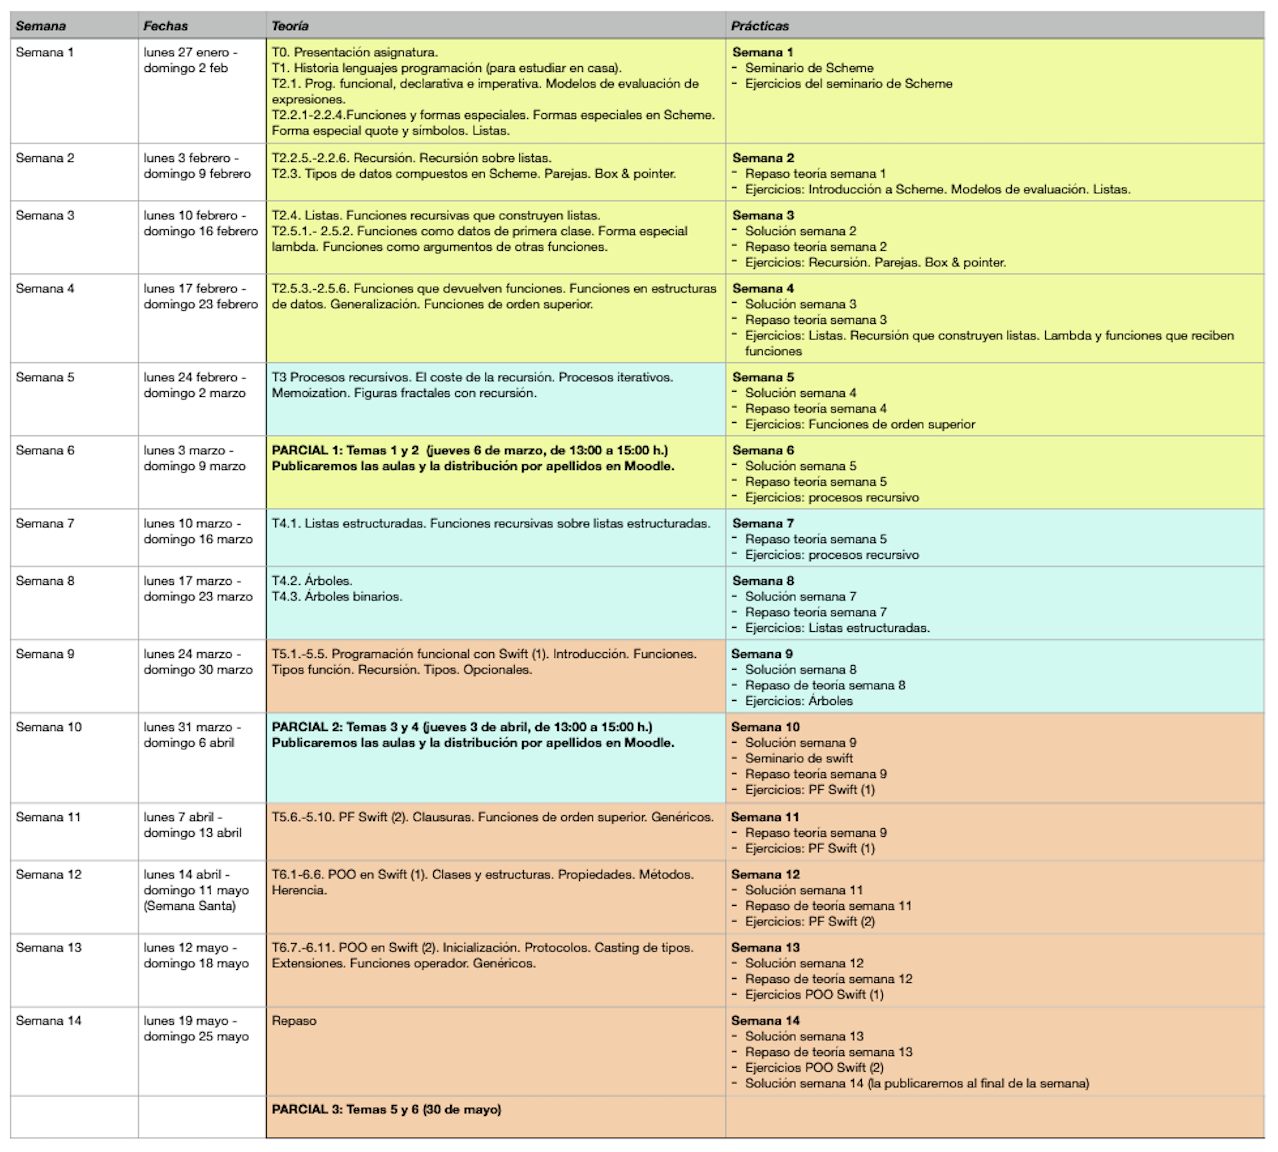
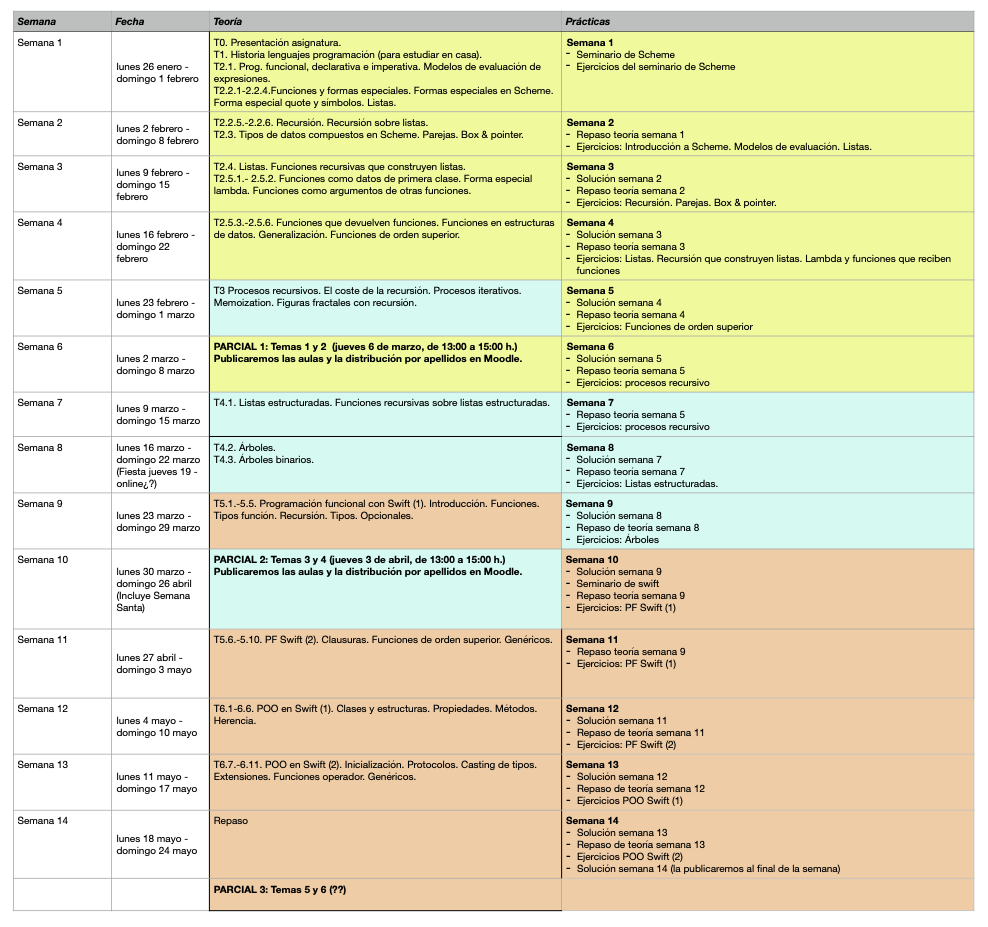
Semana 1 LPP

diff --git a/docs/teoria/tema00-descripcion-asignatura/tema00-descripcion-asignatura.md b/docs/teoria/tema00-descripcion-asignatura/tema00-descripcion-asignatura.md
@@ -18,12 +18,12 @@ prácticas de 2 h. a la semana
 
 ## 2. Recursos de la asignatura
 
-* [Ficha de la asignatura](https://cvnet.cpd.ua.es/Guia-Docente/GuiaDocente/Index?wcodest=C203&wcodasi=34017&wlengua=es&scaca=2024-25)
+* [Ficha de la asignatura](https://cvnet.cpd.ua.es/Guia-Docente/GuiaDocente/Index?wlengua=es&wcodasi=34017&scaca=2025-26)
 * [Apuntes de la asignatura (teoría, seminarios y prácticas)](https://domingogallardo.github.io/apuntes-lpp/)
-* [Sitio Moodle](https://moodle2024-25.ua.es/moodle/course/view.php?id=4543)
+* [Sitio Moodle](https://moodle2025-26.ua.es/moodle/course/view.php?id=8244)
   abierto y accesible a toda la comunidad educativa, contiene los apuntes,
   transparencias, prácticas y otros materiales docentes.
-* [Foro de consultas y anuncios](https://moodle2024-25.ua.es/moodle/mod/forum/view.php?id=99497) en el sitio Moodle.
+* [Foro de consultas y anuncios](https://moodle2025-26.ua.es/moodle/mod/forum/view.php?id=120943) en el sitio Moodle.
 
 ## 3. Objetivos y competencias
 
@@ -173,7 +173,7 @@ compañeros.
 
 ## 6. Horarios
 
-La distribución de grupos del curso 2024-25 es la siguiente:
+La distribución de grupos del curso 2025-26 es la siguiente:
 
 <img src="imagenes/horario.png" width="800px"/>
 
@@ -320,6 +320,6 @@ Para ampliar algunos conceptos se recomiendan las siguientes referencias:
 
 ----
 
-Lenguajes y Paradigmas de Programación, curso 2024-25  
+Lenguajes y Paradigmas de Programación, curso 2025-26  
 © Departamento Ciencia de la Computación e Inteligencia Artificial, Universidad de Alicante  
 Domingo Gallardo, Cristina Pomares, Antonio Botía, Francisco Martínez

diff --git a/docs/teoria/tema02-programacion-funcional/tema02-programacion-funcional.md b/docs/teoria/tema02-programacion-funcional/tema02-programacion-funcional.md
@@ -935,9 +935,9 @@ int function contador () {
 Cada llamada a la función `contador()` devolverá un valor distinto:
 
 ```c
-contador() ;; 1
-contador() ;; 2
-contador() ;; 3
+contador(); // 1
+contador(); // 2
+contador(); // 3
 ```	
 
 Por el contrario, los lenguajes funcionales tienen la propiedad de
@@ -1777,7 +1777,7 @@ concatenar dos o más listas
     elemento que se añade a la lista, mientras que en `append` es otra lista que
     se concatena con la segunda.
 
-
+<!--
 ### 2.7. Recursión
 
 Otra característica fundamental de la programación funcional es la no
@@ -4815,7 +4815,7 @@ Entonces la función `(divisores n)` se implementaría de la siguiente forma:
   (filter (lambda (x)
             (divisor? x n)) (numeros-hasta n)))
 ```
-
+-->
 ## 6. Bibliografía
 
 Capítulos del libro *Structure and Intepretation of Computer Programs*:
@@ -4826,6 +4826,6 @@ Capítulos del libro *Structure and Intepretation of Computer Programs*:
 
 ----
 
-Lenguajes y Paradigmas de Programación, curso 2024-25  
+Lenguajes y Paradigmas de Programación, curso 2025-26  
 © Departamento Ciencia de la Computación e Inteligencia Artificial, Universidad de Alicante  
 Domingo Gallardo, Cristina Pomares, Antonio Botía, Francisco Martínez

diff --git a/docs/teoria/tema01-historia-lenguajes-programacion/tema01-historia-lenguajes-programacion.md b/docs/teoria/tema01-historia-lenguajes-programacion/tema01-historia-lenguajes-programacion.md
@@ -1,5 +1,3 @@
-
-
 # Tema 1: Historia y conceptos de los lenguajes de programación
 
 ## 1. Historia de los lenguajes de programación
@@ -994,6 +992,6 @@ por ejemplo VirtualBox).
 
 ----
 
-Lenguajes y Paradigmas de Programación, curso 2024-25  
+Lenguajes y Paradigmas de Programación, curso 2025-26  
 © Departamento Ciencia de la Computación e Inteligencia Artificial, Universidad de Alicante  
 Domingo Gallardo, Cristina Pomares, Antonio Botía, Francisco Martínez

diff --git a/notas-clase/semana01/semana01.md b/notas-clase/semana01/semana01.md
@@ -581,9 +581,9 @@ int function contador () {
 	return c;
 }
 	
-contador() ;; 1
-contador() ;; 2
-contador() ;; 3
+contador(); // 1
+contador(); // 2
+contador(); // 3
 ```	
 
 **Por el contrario**, los lenguajes funcionales puros tienen la propiedad
